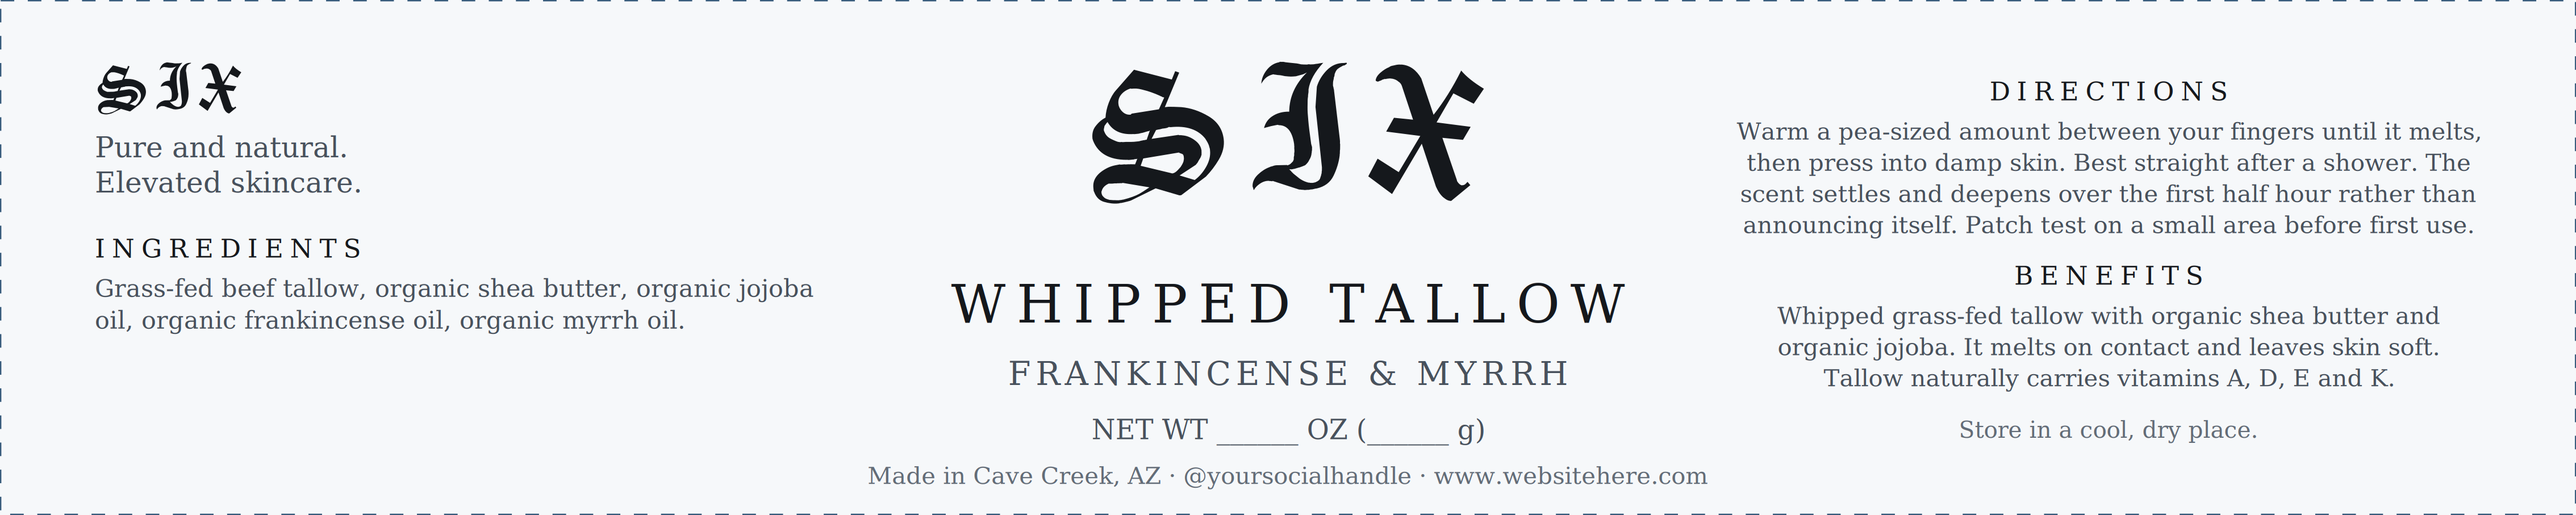
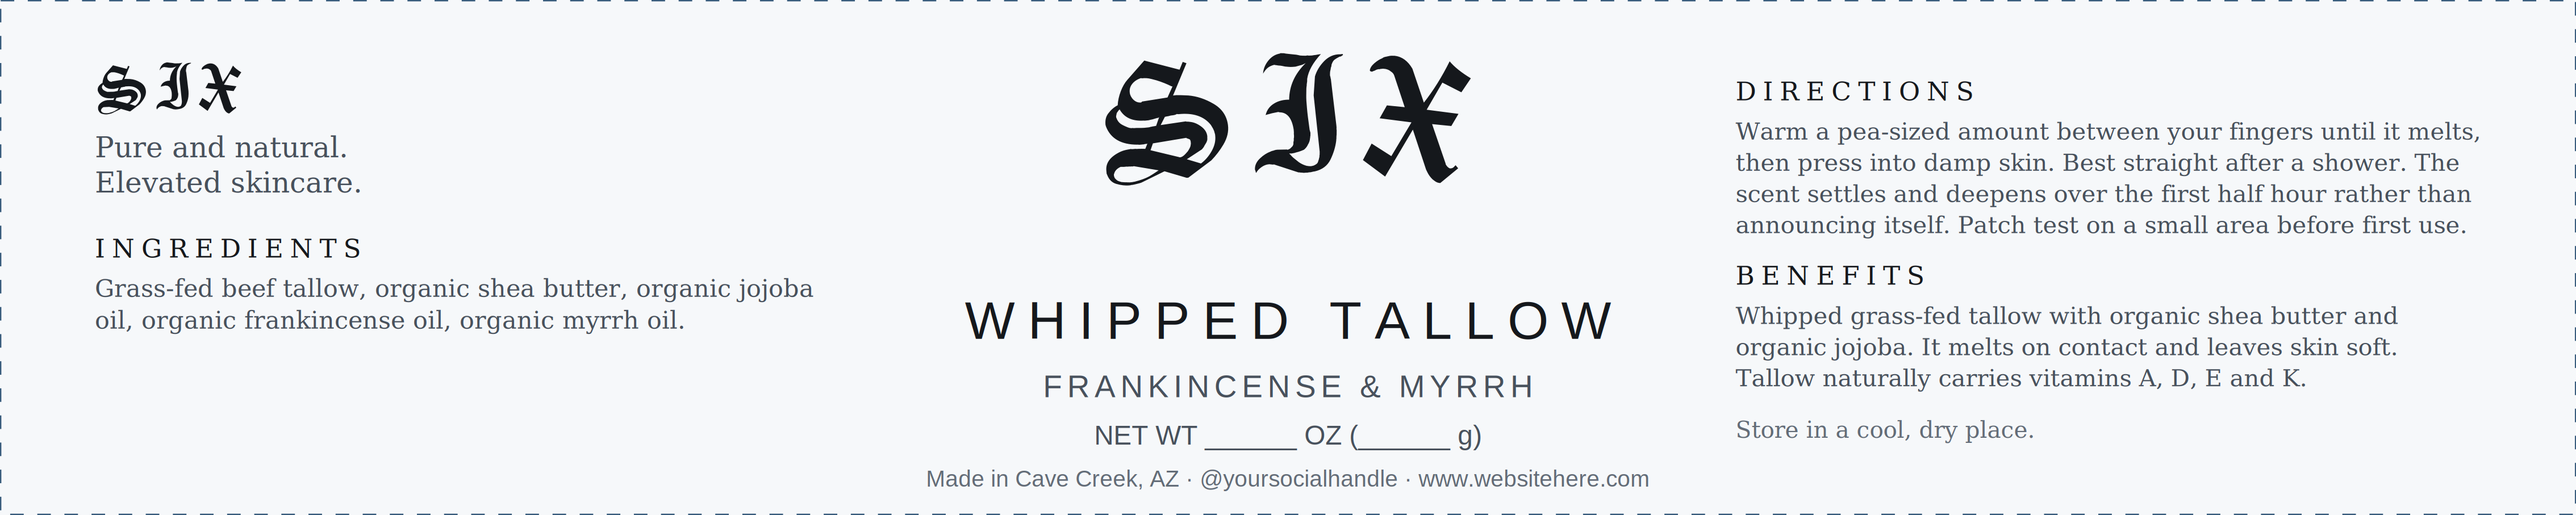
Range the right column left, open the centre up
Directions and benefits are now ranged left, matching the ingredients column;
only the middle stays centred. The wordmark is smaller and sits higher, which
widens the gap beneath it so the blackletter reads as a mark rather than as a
heading. Product identity and net contents set in the sans below it — a second
serif was competing with the mark.

Claude-Session: https://claude.ai/code/session_01TYn4u9H1AxY32yb73P56yk

diff --git a/scripts/make-labels.py b/scripts/make-labels.py
@@ -345,14 +345,13 @@ def lid_label(p, mark, guides, net) -> str:
 #
 # Three columns under a centred wordmark, after the reference label: what the
 # product is in the middle, what is in it on the left, what to do with it on
-# the right. The left column is ranged left and the right column is centred,
-# which is how the reference sets it.
+# the right. Both side columns are ranged left; only the middle is centred.
 # ---------------------------------------------------------------------------
 
-def fit(s: str, start: float, limit: float, tracking: float, floor=1.9) -> float:
+def fit(s, start: float, limit: float, tracking: float, serif=True, floor=1.9) -> float:
     """Largest size at or under `start` that keeps `s` inside `limit`."""
     size = start
-    while size > floor and width(s, size, True, tracking) > limit:
+    while size > floor and width(s, size, serif, tracking) > limit:
         size -= 0.05
     return size
 
@@ -362,32 +361,39 @@ def front_label(p, mark, guides, net) -> str:
     w, h = FRONT_WIDTH, FRONT_HEIGHT
 
     left_x, col = 7.0, 55.0
-    right_cx = w - 7.0 - col / 2
+    right_x = w - 7.0 - col
     centre = w / 2
 
     out = [f'<rect x="0" y="0" width="{w}" height="{h}" fill="{PAPER}" />']
 
     # --- centre -----------------------------------------------------------
-    mark_w = 30.0
-    out.append(wordmark_at(centre, 4.0, mark_w, path, vw, vh))
+    # The mark is set small and high to open up the gap beneath it; that gap
+    # is what makes the blackletter read as a mark rather than as a heading.
+    mark_w = 28.0
+    out.append(wordmark_at(centre, 3.4, mark_w, path, vw, vh))
 
-    title = fit("WHIPPED TALLOW", 3.9, 50.0, 0.8)
+    # Sans under the blackletter. A second serif competes with it; a plain
+    # grotesque lets the mark be the only decorated thing on the label.
+    title = fit("WHIPPED TALLOW", 3.9, 50.0, 0.95, serif=False)
     out.append(
-        text(centre, 23.8, "WHIPPED TALLOW", title, anchor="middle", tracking=0.8)
+        text(centre, 25.0, "WHIPPED TALLOW", title, serif=False, anchor="middle",
+             tracking=0.95)
     )
 
     blend = nobreak(p["name"]).upper()
-    size = fit(blend, 2.4, 52.0, 0.35)
+    size = fit(blend, 2.3, 52.0, 0.35, serif=False)
     out.append(
-        text(centre, 28.4, blend, size, anchor="middle", fill=INK_SOFT, tracking=0.35)
+        text(centre, 29.3, blend, size, serif=False, anchor="middle",
+             fill=INK_SOFT, tracking=0.35)
     )
 
-    out.append(text(centre, 32.4, net, 2.0, anchor="middle", fill=INK_SOFT))
+    out.append(text(centre, 32.8, net, 2.0, serif=False, anchor="middle",
+                    fill=INK_SOFT))
 
     # Name and place of business, which the label is required to carry.
     out.append(
-        text(centre, 35.7, "   ·   ".join([ORIGIN] + CONTACT), 1.75,
-             anchor="middle", fill=INK_FAINT)
+        text(centre, 35.9, "   ·   ".join([ORIGIN] + CONTACT), 1.7,
+             serif=False, anchor="middle", fill=INK_FAINT)
     )
 
     # The two side columns carry different amounts of text per blend, so each
@@ -412,19 +418,15 @@ def front_label(p, mark, guides, net) -> str:
     def right_column(k: float) -> tuple[list[str], float]:
         parts, y = [], 7.4
         for heading, copy in (("DIRECTIONS", p["howToUse"]), ("BENEFITS", BENEFITS)):
-            parts.append(
-                text(right_cx, y, heading, 1.9 * k, anchor="middle", tracking=0.5 * k)
-            )
+            parts.append(text(right_x, y, heading, 1.9 * k, tracking=0.5 * k))
             y += 2.9 * k
             for line in wrap(copy, 1.75 * k, col):
-                parts.append(
-                    text(right_cx, y, line, 1.75 * k, anchor="middle", fill=INK_SOFT)
-                )
+                parts.append(text(right_x, y, line, 1.75 * k, fill=INK_SOFT))
                 y += 2.3 * k
             y += 1.5 * k
         parts.append(
-            text(right_cx, y, "Store in a cool, dry place.", 1.7 * k,
-                 anchor="middle", fill=INK_FAINT, italic=True)
+            text(right_x, y, "Store in a cool, dry place.", 1.7 * k,
+                 fill=INK_FAINT, italic=True)
         )
         return parts, y
 
